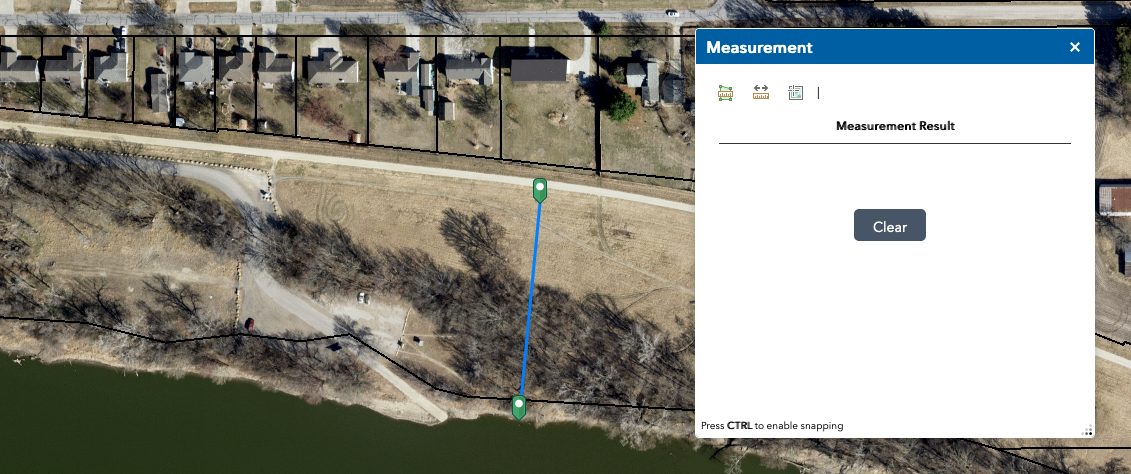
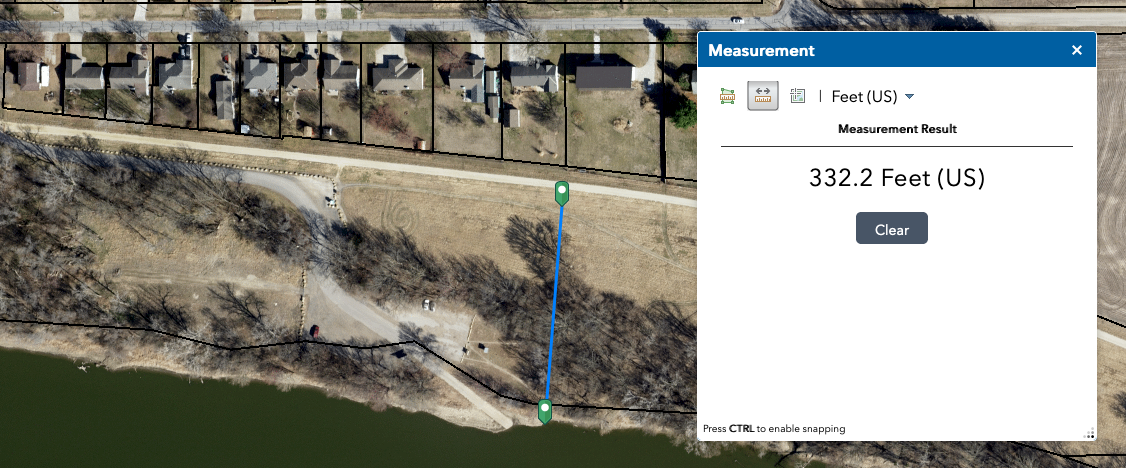
Valve

diff --git a/README.md b/README.md
@@ -15,11 +15,13 @@ July 28, 2020
 
 #### Overview
 
-The development planned for 872 Oak Street will consist of a below ground swimming pool. The project site, located in the City of Lawrence, Douglas County, Kansas, was historically used for agriculture, and has one existing house with a basement. A few trees exist on the property. Some smaller fruit trees will be removed, but the larger shade trees will remain. The project layout is illustrated on Sheet 1, included in Appendix A.
+The development planned for 872 Oak Street will consist of a below ground natural swimming pool (or pond). The project site, located in the City of Lawrence, Douglas County, Kansas, was historically used for agriculture, and has one existing house with a basement. A few trees exist on the property. Some smaller fruit trees will be removed, but the larger shade trees will remain.
 
 #### Construction
 
-Construction will begin in the spring of 2021 and continue through the summer of 2021. Specific construction activities covered in this report are a pool excavation with a footprint of approximately 2,828 square feet. The periods during which subsurface excavation activities will occur is no greater than 2 weeks.
+Construction will happen in the fall of 2020. Specific construction activities covered in this report are a pool excavation with a footprint of approximately 2,423 square feet. The periods during which subsurface excavation activities will occur is no greater than 2 weeks.
+
+The pool will contain the water via a water tight liner of EPDM rubber (45 or 60 mil thick) or fiber reinforced polyethylene (24 or 30 mil thick) installed following the manufacturers recommendations.
 
 #### Kansas River Levee Station
 
@@ -51,20 +53,17 @@ The excavations at the closest point are approximately 31' from the toe and 51' 
 
 > Source: _USACE Lawrence, Kansas Operation and Maintenance Manual - Plan, Profile and Underground Explorations Sta. 346+00 to Sta. 402+00_ dated May 1969.
 
-![Riverside Blanket](https://raw.githubusercontent.com/nathancolgate/corps-of-engineers-pool-report/master/riverside_blanket.png)
-<small>_Figure: Actual length of the riverside natural blanket_</small>
-
 ### Subsurface Conditions
 
 #### Soils Information
 
 Soil names, descriptions, formation, classifications, and physical and engineering characteristics were obtained from the _United States Department of Agriculture Soil Conservation Service -- Soil Survey of Douglas County, Kansas_.
 
-Detached boring information and descriptions of soil types, characteristics from soil samples of those borings, levee elevations, and depth to soil stratum layers  were obtained from the _USACE Plan, Profile and Underground Explorations Sta. 346+00 to Sta. 402+00_ dated May 1969. No subsurface explorations or laboratory testing program were specifically performed for this project.
+Detached boring information and descriptions of soil types, characteristics from soil samples of those borings, levee elevations, and depth to soil stratum layers  were obtained from the _USACE Plan, Profile and Underground Explorations Sta. 346+00 to Sta. 402+00_ dated May 1969. A laboratory testing program was not specifically performed for this project. A subsurface percolation test was performed on site, as well as a topographical survey.
 
 #### Natural Blanket
 
-The uppermost soil stratum at the site is classified by the Soil Survey and the USACE as a silt loam to silty clay loam (ML, CL) described as Eudora-Bismarckgrove complex. The Eudora series consists of deep, well drained, nearly level to gently undulating soils on flood plains, formed in loamy alluvium and for this report will be considered the blanket material.
+The uppermost soil stratum at the site is classified by the Soil Survey and the USACE as a silt loam to silty clay loam (ML-CL) described as Eudora-Bismarckgrove complex. The Eudora series consists of deep, well drained, nearly level to gently undulating soils on flood plains, formed in loamy alluvium.
 
 > Source: Sheet Number 3 of the _USACE Lawrence, Kansas Operation and Maintenance Manual - Plan, Profile and Underground Explorations Sta. 346+00 to Sta. 402+00_ dated May 1969.
 
@@ -76,6 +75,13 @@ The uppermost soil stratum at the site is classified by the Soil Survey and the 
 
 This soil horizon varies in thickness but average in depth of 16 to 24 feet and greater. For the purpose of this analysis, the blanket thickness has been estimated at 20 feet, with a bottom elevation of 804.00. This is an average of the observed blanket thickness of boring D-77 at STA 385+10 (16 feet) and boring D-78 at STA 394+10 (24 feet).
 
+The natural riverside blanket is 332 feet long.
+
+![Riverside Blanket](https://raw.githubusercontent.com/nathancolgate/corps-of-engineers-pool-report/master/riverside_blanket.png)
+<small>_Figure: Actual length of the riverside natural blanket_</small>
+
+> Source: _Lawrence GIS_ [https://lawrenceks.maps.arcgis.com/](https://lawrenceks.maps.arcgis.com/)
+
 #### Natural Blanket Saturated Conductivity
 
 | Description     |  Value | UOM     |
@@ -83,19 +89,19 @@ This soil horizon varies in thickness but average in depth of 16 to 24 feet and 
 | Sand            | 29.70 | cm/hour |
 | Loamy Sand      | 14.60 | cm/hour |
 | Sandy Loam      | 4.42  | cm/hour |
-| Loamy Sand      | 1.04  | cm/hour |
-| Silt            | 0.25  | cm/hour |
-| Silt Loam       | 0.45  | cm/hour |
 | Sandy Clay Loam | 1.31  | cm/hour |
+| Loam      		 | 1.04  | cm/hour |
+| Silt Loam       | 0.45  | cm/hour |
+| Silt            | 0.25  | cm/hour |
 | Clay Loam       | 0.26  | cm/hour |
-| Silty Clay Loam | 0.07  | cm/hour |
-| Sandy Clay      | 0.12  | cm/hour |
-| Silty Clay      | 0.02  | cm/hour |
 | Clay            | 0.20  | cm/hour |
+| Sandy Clay      | 0.12  | cm/hour |
+| Silty Clay Loam | 0.07  | cm/hour |
+| Silty Clay      | 0.02  | cm/hour |
 
 > Source: _Typical parameter values of van Genuchten models for different soil texture classes (from Leij, Alves, and van Genuchten, 1996)_ [http://soilphysics.okstate.edu/software/water/conductivity.html](http://soilphysics.okstate.edu/software/water/conductivity.html)
 
-The saturated conductivity of Silt Loam (ML) and Silty Clay Loam (CL) is between 0.45 and 0.07 cm/hour. However, an on-site percolation test was conducted at a depth of 3 feet, and found the soil to have a rate of 3.81 cm/hour (more akin to sandy loam soil). For this analysis, the conductivity of loamy sand (1.04 cm/hour) will be used for the vertical permeability of the impervious natural blanket.
+The saturated conductivity of Silt Loam (ML) and Silty Clay Loam (CL) is between 0.45 and 0.07 cm/hour. However, an on-site percolation test was conducted at a depth of 3 feet, and found the soil to have a rate of 3.81 cm/hour (more akin to sandy loam soil). For this analysis, sandy loam will be used for the blanket material.
 
 #### Natural Foundation
 
@@ -133,7 +139,7 @@ While the Kansas River at Lawrence Flood Stage Gauge is upstream of the project,
 
 Ground water levels were estimated based on information provided in the United States Department of Agriculture's _Soil Survey of Douglas County, Kansas_ dated 1973. Groundwater elevations and fluctuations for the Eudora-Kimo complex are outlined in the Soil Survey. Seasonal high water tables are more apparent in the months from March to June with elevations generally being greater than six feet below ground surface.  No physical groundwater levels were determined for this report.
 
-At this project location, the ground surface varies from approximately 5 to 8 feet below the top of the levee.  Assuming fully saturated soil with groundwater up to the surface, the groundwater at the project site would be at the ground surface adjacent to the levee or an elevation of 821.00 feet above sea level.
+At this project location, the ground surface is approximately 6 feet below the top of the levee.  Assuming fully saturated soil with groundwater up to the surface, the groundwater at the project site would be at the ground surface adjacent to the levee or an elevation of 822.3 feet above sea level.
 
 > Source: _Soil Survey of Douglas County, Kansas_ [http://www.nrcs.usda.gov/Internet/FSE_MANUSCRIPTS/kansas/douglasKS1977/douglas.pdf](http://www.nrcs.usda.gov/Internet/FSE_MANUSCRIPTS/kansas/douglasKS1977/douglas.pdf)
 
@@ -168,10 +174,10 @@ Underseepage Analyses: Underseepage calculations to determine hydraulic grade li
 | Effective length of the pervious foundation of infinite length covered by a natural impervious blanket                                     | C      | 253.1 | ft       | USACE Calculation: ![Cross Section of Levee](https://raw.githubusercontent.com/nathancolgate/corps-of-engineers-pool-report/master/calcs/c.png) |
 | Actual length of the landside natural blanket                                                                                              | L<sub>L</sub>     | infinite | ft       |                                                                   |
 | Distance from the landside toe of the assumed impervious section to the effective seepage exit                                             | L<sub>e</sub>     | 253.1   | ft       | USACE Manual: C when L<sub>L</sub> is infinite                               |
-| Actual length of the riverside natural blanket                                                                                             | L<sub>R</sub>     | 386.5   | ft       | Kansas River riverside blanket exposure to riverside of the levee |
-| Effective length of the riverside blanket                                                                                                  | L<sub>1</sub>     | 306.55   | ft       | USACE Calculation: ![Cross Section of Levee](https://raw.githubusercontent.com/nathancolgate/corps-of-engineers-pool-report/master/calcs/l1.png) |
-| Base width of the assumed impervious fill and natural blanket beneath it.                                                                  | L<sub>2</sub>     | 90.00    | ft       |                                                                   |
-| Head above tailwater at landside levee toe (in sands)                                                                                      | h<sub>o</sub>     | 2.29     | ft       | USACE Calculation: ![Cross Section of Levee](https://raw.githubusercontent.com/nathancolgate/corps-of-engineers-pool-report/master/calcs/ho.png) |
+| Actual length of the riverside natural blanket                                                                                             | L<sub>R</sub>     | 332.0   | ft       | Kansas River riverside blanket exposure to riverside of the levee |
+| Effective length of the riverside blanket                                                                                                  | L<sub>1</sub>     | 208.9   | ft       | USACE Calculation: ![Cross Section of Levee](https://raw.githubusercontent.com/nathancolgate/corps-of-engineers-pool-report/master/calcs/l1.png) |
+| Base width of the assumed impervious fill and natural blanket beneath it.                                                                  | L<sub>2</sub>     | 40.0    | ft       |                                                                   |
+| Head above tailwater at landside levee toe (in sands)                                                                                      | h<sub>o</sub>     | 2.97     | ft       | USACE Calculation: ![Cross Section of Levee](https://raw.githubusercontent.com/nathancolgate/corps-of-engineers-pool-report/master/calcs/ho.png) |
 
 This analysis was performed to determine the head above tailwater or hydraulic gradient at the point of excavations with respect to the levee. Using the equations outlined on the USACE guidance document within the Underseepage section.
 
@@ -199,29 +205,29 @@ Per USACE requirements, the factor of safety must be a minimum of 1.5 at the bot
 | Critical or maximum upward seepage gradient through natural blanket | i<sub>c</sub>     | 1.0 | 1.0 | 1.0 | unitless | USACE Calculation:  ![Cross Section of Levee](https://raw.githubusercontent.com/nathancolgate/corps-of-engineers-pool-report/master/calcs/ic.png) |
 | Depth of Excavation                                                 | D<sub>e</sub>     | 5.3    | 9.3    | 4.2    | ft       | Excavation plan |
 | Location where uplift is calculated                                 | x     | 36.9    | 46.0    | 65.3    | ft       | Excavation plan |
-| | x<sub>L</sub> | 506.1 | 506.1 | 506.1 | ft | USACE Manual: L<sub>e</sub> |
-| Head above tailwater at project location (in sands) | h<sub>x</sub>     | 3.37 | 3.31 | 3.19 | ft       | USACE Calculation: ![Cross Section of Levee](https://raw.githubusercontent.com/nathancolgate/corps-of-engineers-pool-report/master/calcs/hx.png) |
+| | x<sub>L</sub> | 253.1 | 253.1 | 253.1 | ft | USACE Manual: L<sub>e</sub> |
+| Head above tailwater at project location (in sands) | h<sub>x</sub>     | 2.56 | 2.47 | 2.29 | ft | USACE Calculation: ![Cross Section of Levee](https://raw.githubusercontent.com/nathancolgate/corps-of-engineers-pool-report/master/calcs/hx.png) |
 | Thickness of impervious blanket under excavation                          | z      | 13.0   | 9.0   | 14.1   | ft       | D<sub>b</sub> - D<sub>e</sub> |
-| Actual Gradient                                                  | i      | 0.26 | 0.37 | 0.23 | unitless | USACE Calculation: h<sub>x</sub> / z      |
-| Piping factors of safety                                             | F<sub>s</sub>     | 3.87    | 2.73    | 4.44    | unitless | USACE Calculation:  ![Cross Section of Levee](https://raw.githubusercontent.com/nathancolgate/corps-of-engineers-pool-report/master/calcs/fs.png) |
+| Actual Gradient                                                  | i      | 0.20 | 0.27 | 0.16 | unitless | USACE Calculation: h<sub>x</sub> / z      |
+| Piping factors of safety                                             | F<sub>s</sub>     | 5.09    | 3.65    | 6.17 | unitless | USACE Calculation:  ![Cross Section of Levee](https://raw.githubusercontent.com/nathancolgate/corps-of-engineers-pool-report/master/calcs/fs.png) |
 
 While all of the piping factors of safety exceeds USACE requirements, it is recommended that contractors keep a stockpile of soil on site for emergency backfill.
 
 ## Table 3: Uplift Pressure
 
-Given the vary depths and complex shape of the pool, the average depth and average hydraulic gradient from Table 2 were used for this analysis.
+Given the varying depths and complex shape of the pool, the average depth and average hydraulic gradient from Table 2 were used for this analysis.
 
 | Description                                                             | Symbol | Value  | UOM    | Source             |
 |-------------------------------------------------------------------------|--------|--------|--------|--------------------|
-| Height of hydraulic gradient above the bottom of the impervious blanket | H1     | 21.5  | ft     | D<sub>b</sub> + h<sub>xaverage</sub> |
+| Height of hydraulic gradient above the bottom of the impervious blanket | H1     | 20.6  | ft     | D<sub>b</sub> + h<sub>xaverage</sub> |
 | Height of blanket                                                       | H2     | 18.3  | ft     | D<sub>b</sub>                 |
 | Depth of Excavation                                                     | H3     | 4.2   | ft     | d<sub>poolaverage</sub>                |
 | Unit weight of Water                                                    | GW     | 62.40  | lb/ft3 |                    |
-| Uplift Pressure at the base of structure                                | P3     | 307.9 | lb/ft2 | USACE Calculation: ![Cross Section of Levee](https://raw.githubusercontent.com/nathancolgate/corps-of-engineers-pool-report/master/calcs/p3.png) |
+| Uplift Pressure at the base of structure                                | P3     | 295.0 | lb/ft2 | USACE Calculation: ![Cross Section of Levee](https://raw.githubusercontent.com/nathancolgate/corps-of-engineers-pool-report/master/calcs/p3.png) |
 
 ## Table 4: Uplift Gradient
 
-Given the vary depths and complex shape of the pool, the average depth was used for this analysis.
+Given the varying depths and complex shape of the pool, the average depth was used for this analysis.
 
 | Description                              | Symbol           | Value     | UOM    | Source                     |
 |------------------------------------------|------------------|-----------|--------|----------------------------|
@@ -231,8 +237,8 @@ Given the vary depths and complex shape of the pool, the average depth was used 
 | Average depth of pool                      | d<sub>poolaverage</sub>                | 2.9      | ft     | v<sub>pool</sub> / a<sub>total</sub> |
 | Elevation of pool surface below levee toe | d<sub>offset</sub> | 1.3      | ft     | As designed |
 | Thickness of blanket                     | d<sub>baverage</sub> | 14.1 | ft     | d<sub>b</sub> - d<sub>poolaverage</sub> - d<sub>offset</sub> |
-| Head above tailwater at project location | h<sub>xaverage</sub>| 3.19 | ft | Table 2 |
-| Uplift Gradient Total                    | u<sub>gradientaverage</sub>   | 99,219.5 | lbs    | (d<sub>poolaverage</sub>/d<sub>baverage</sub>) * h<sub>xaverage</sub> * a<sub>total</sub> * γ<sub>w</sub>   |
+| Head above tailwater at project location | h<sub>xaverage</sub>| 2.29 | ft | Table 2 |
+| Uplift Gradient Total                    | u<sub>gradientaverage</sub>   | 71,211.9 | lbs    | (d<sub>poolaverage</sub>/d<sub>baverage</sub>) * h<sub>xaverage</sub> * a<sub>total</sub> * γ<sub>w</sub>   |
 
 ## Table 5: Uplift Factor of Safety Variables
 
@@ -245,43 +251,57 @@ Given the vary depths and complex shape of the pool, the average depth was used 
 
 ## Table 6: Default Uplift Factor of Safety Calculations
 
-A building load comparison can be done to determine the factor of safety against floatation of building foundations. The factor of safety is the ratio of the total weight of the building, to the uplift forces caused by flood waters on the riverside of the levee system or the presence of a high groundwater table. The minimum uplift factor of safety specified by the U.S. Army Corps of Engineers at this flood condition is 1.10.
+A load comparison can be done to determine the factor of safety against floatation. The factor of safety is the ratio of the total weight of the pool, to the uplift forces caused by flood waters on the riverside of the levee system or the presence of a high groundwater table. The minimum uplift factor of safety specified by the U.S. Army Corps of Engineers at this flood condition is 1.10.
 
 | Description                              | Symbol           | Value     | UOM    | Source                     |
 |------------------------------------------|------------------|-----------|--------|----------------------------|
-| Total Uplift | u<sub>total</sub> | 533,648.3 | lbs | u<sub>pool</sub> + u<sub>gradientaverage</sub> |
-| Total Weight | v<sub>pool</sub> | 434,428.8 |  lbs | e<sub>pool</sub> |
-| Uplift Factor of Safety| | 0.81 | unitless | v<sub>pool</sub> / u<sub>total</sub> |
+| Total Uplift | u<sub>total</sub> | 505,640.7 | lbs | u<sub>pool</sub> + u<sub>gradientaverage</sub> |
+| Total Weight | e<sub>pool</sub> | 434,428.8 |  lbs | e<sub>pool</sub> |
+| Uplift Factor of Safety| | 0.86 | unitless | e<sub>pool</sub> / u<sub>total</sub> |
 
 ### Pool Excavation Methodology and Design Modifications
 
-Based on the analyses provided in the above sections for underseepage and uplift forces, a modified pool design will be required in order to prevent uplift. This will be accomplished by the addition of a rock bottom to the deep and shallow swim areas, as well as a rock biological filter to the regeneration zone.
+Based on the analyses provided in the above sections for underseepage and uplift forces, a modified pool design will be required in order to prevent uplift. Additional weight will be added via rocks in the following ways:
+
+1. The chosen design for this natural swimming pool calls for a rock biological filter in a zone designated for regeneration and natural filtration.
+2. River rocks will be added to the bottom of the deep swim zone.
+2. River rocks will be added to the bottom of the shallow swim zone.
+2. Decorative boulders will be added to pool.
 
 ![Anatomy of a Natural Swimming Pool](https://raw.githubusercontent.com/nathancolgate/corps-of-engineers-pool-report/master/anatomy_of_nsp.png)
-<small>_Figure: Anatomy of a Natural Swimming Pool. From Total Habitat's Natural Swimming Pools and Ponds Complete How To Guide, 2012_</small>
+<small>_Figure: Typical Design of a Natural Swimming Pool (NSP)._</small>
 
-| | Deep Swim | Shallow Swim | Biological Filter | Total |
-|-------|-------|-------|-------|-------|
-| Volume | 3,287 ft<sup>3</sup> | 1,576 ft<sup>3</sup> | 2,099 ft<sup>3</sup> | 6,962 ft<sup>3</sup> |
-| Area | 541 ft<sup>2</sup> (105 ft<sup>2</sup> at bottom) | 812 ft<sup>3</sup> | 1,070 ft<sup>3</sup> | 2,423 ft<sup>3</sup> |
-| Rock Addition | Add 1 foot to bottom | Add 1 foot to bottom | Fill 75% of volume | |
-| Volume of Rock, water filled | 105 ft<sup>3</sup> | 812 ft<sup>3</sup> | 1575 ft<sup>3</sup> | 2,492 ft<sup>3</sup> |
-| Unit Weight of Rock, water filled | 125 lbs/ft<sup>3</sup> | 125 lbs/ft<sup>3</sup> | 125 lbs/ft<sup>3</sup> | 125 lbs/ft<sup>3</sup> |
-| Weight of Rock, water filled | 13,125 lbs | 101,500 lbs | 196,781 lbs | 311,406 lbs |
-| Volume of Water | 3,182 ft<sup>3</sup> | 764 ft<sup>3</sup> | 525 ft<sup>3</sup> | 4,470 ft<sup>3</sup> |
-| Unit Weight of Water | 62.4 lbs/ft<sup>3</sup> | 62.4 lbs/ft<sup>3</sup> | 62.4 lbs/ft<sup>3</sup> | 62.4 lbs/ft<sup>3</sup> |
-| Weight of Water | 198,556 lbs | 47,673 lbs | 32,744 lbs | 278,975 lbs |
+> Source: _Natural Swimming Pools & Ponds: THE TOTAL GUIDE, 2nd Edition_ copyright 2012 [https://www.totalhabitat.com/how-to-guide-ebook.html](https://www.totalhabitat.com/how-to-guide-ebook.html)
+
+
+To further address uplift pressures when the pool is empty or partially filled, the pool has been designed with a hydrostatic relief valve to allow water to infiltrate the pool when the hydrostatic pressure due to high groundwater levels exceed a differential pressure of 1.0 psi or 2.3 feet of water.
+
+
+
+The following table breaks down the additional weight added to the pool via the rocks.
+
+The unit weight of water filled rock was determined by an on-site test in which a bucket was filled with the desired rock material, topped off with water, and then weighed and measured.
+
+| Zone | Deep Swim | Shallow Swim | Biological Filter | Boulders | Total | UOM |
+|-------|-------|-------|-------|-------|-------|-------|
+| Total Volume | 3,187 | 1,576 | 2,099 | 100 | 6,962 | ft<sup>3</sup> |
+| Total Area | 541 (105 at bottom) | 812 | 1,070 | - | 2,423 | ft<sup>3</sup> |
+| Rock Addition | Add 0.5 ft to bottom | Add 0.5 ft to bottom | Fill 75% of volume per NSP guidebook | | |
+| Volume of Rock (water filled) | 52.5 | 406 | 1,575 | 100 | 2,492 | ft<sup>3</sup> |
+| Unit Weight of Rock | 119 | 119 | 119 | 165 | | lbs/ft<sup>3</sup> |
+| Weight of Rock (water filled) | 6,247 | 48,314 | 187,335 | 16,500 | 258,397 | lbs |
+| Volume of Water | 3,135 | 1,170 | 525 | 0 | 4,470 | ft<sup>3</sup> |
+| Unit Weight of Water | 62.4 | 62.4 | 62.4 | 62.4 | | lbs/ft<sup>3</sup> |
+| Weight of Water | 195,592 | 73,008 | 32,744 | 0 | 301,345 | lbs |
 
 
 ## Table 9: Designed Uplift Factors of Safety Calculations
 
 | Description                              | Symbol           | Value     | UOM    | Source                     |
 |------------------------------------------|------------------|-----------|--------|----------------------------|
-| Total Uplift | u<sub>total</sub> | 533,648.3 | lbs | u<sub>pool</sub> + u<sub>gradientaverage</sub> |
-| Total Weight | v<sub>pool</sub> | 590,381.0 |  lbs | Total Weight of Water + Total Weight of Rock, water filled |
-| Uplift Factor of Safety| | 1.11 | unitless | v<sub>pool</sub> / u<sub>total</sub> |
-
-To further address uplift pressures when the pool is empty or partially filled, the pool has been designed with a hydrostatif relief valve to allow water to infiltrate the pool when the hydrostatic pressure due to high groundwater levels exceed a differential pressure of 1.0 psi or 2.3 feet of water.
+| Total Uplift | u<sub>total</sub> | 505,640.7 | lbs | u<sub>pool</sub> + u<sub>gradientaverage</sub> |
+| Total Weight | e<sub>pool</sub> | 555,142.5 |  lbs | Total Weight of Water + Total Weight of Rock (water filled) |
+| Uplift Factor of Safety| | 1.10 | unitless | e<sub>pool</sub> / u<sub>total</sub> |
 
 ## Interim Flood Protection and Contingency Plan
 
@@ -294,19 +314,6 @@ The analyses and evaluations presented in this report are based on data obtained
 This report has been prepared for the exclusive use of this site to address the engineering and safety concerns associated with the construction of single-family residence within the critical area of federally constructed flood control project. The analyses and evaluations indicated that uplift pressures due to underseepage and buoyant soil conditions need to be addressed by utilizing the modified basement design detailed in this report.  Factors of safety against piping and heave were shown to greatly exceeded the minimum values specified by the USACE.
 
 While there is low safety risk associated with the construction activities, it is recommended that subsurface excavation depths greater than 30” not occur when the Kansas River is at a flood stage greater than 25 feet.
-
-#### Valve
-
-> Self-contained unit has a built-in collector tube
-> Installs directly into the pool finish with no additional plumbing connection required
-> Helps prevent swimming pool damage due to hydrostatic pressure beneath the pool shell 
-when pool is drained
-
-https://www.aquastarpoolproducts.com/ItemCatalog/FittingSelf-Contained-Hydrostatic-Valve-Assembly
-
-> This assembly is normally placed in and extending below the main drain sump to relieve the hydrostatic pressure under the pool shell. This assembly consists of an ABS hydrostatic relief valve, brass no leak flange, and a pebble and gravel stopper. Complete assembly consists of: (1) P095130 / 2″ ABS hydrostatic relief valve; (1) P097110 / 2″ FIP brass no leak flange; (1) P095260 / 2″ PVC pebble and gravel stopper
-
-https://www.swimtime.com/product/hydrostatic-relief-valve-assembly-2/
 
 
 
